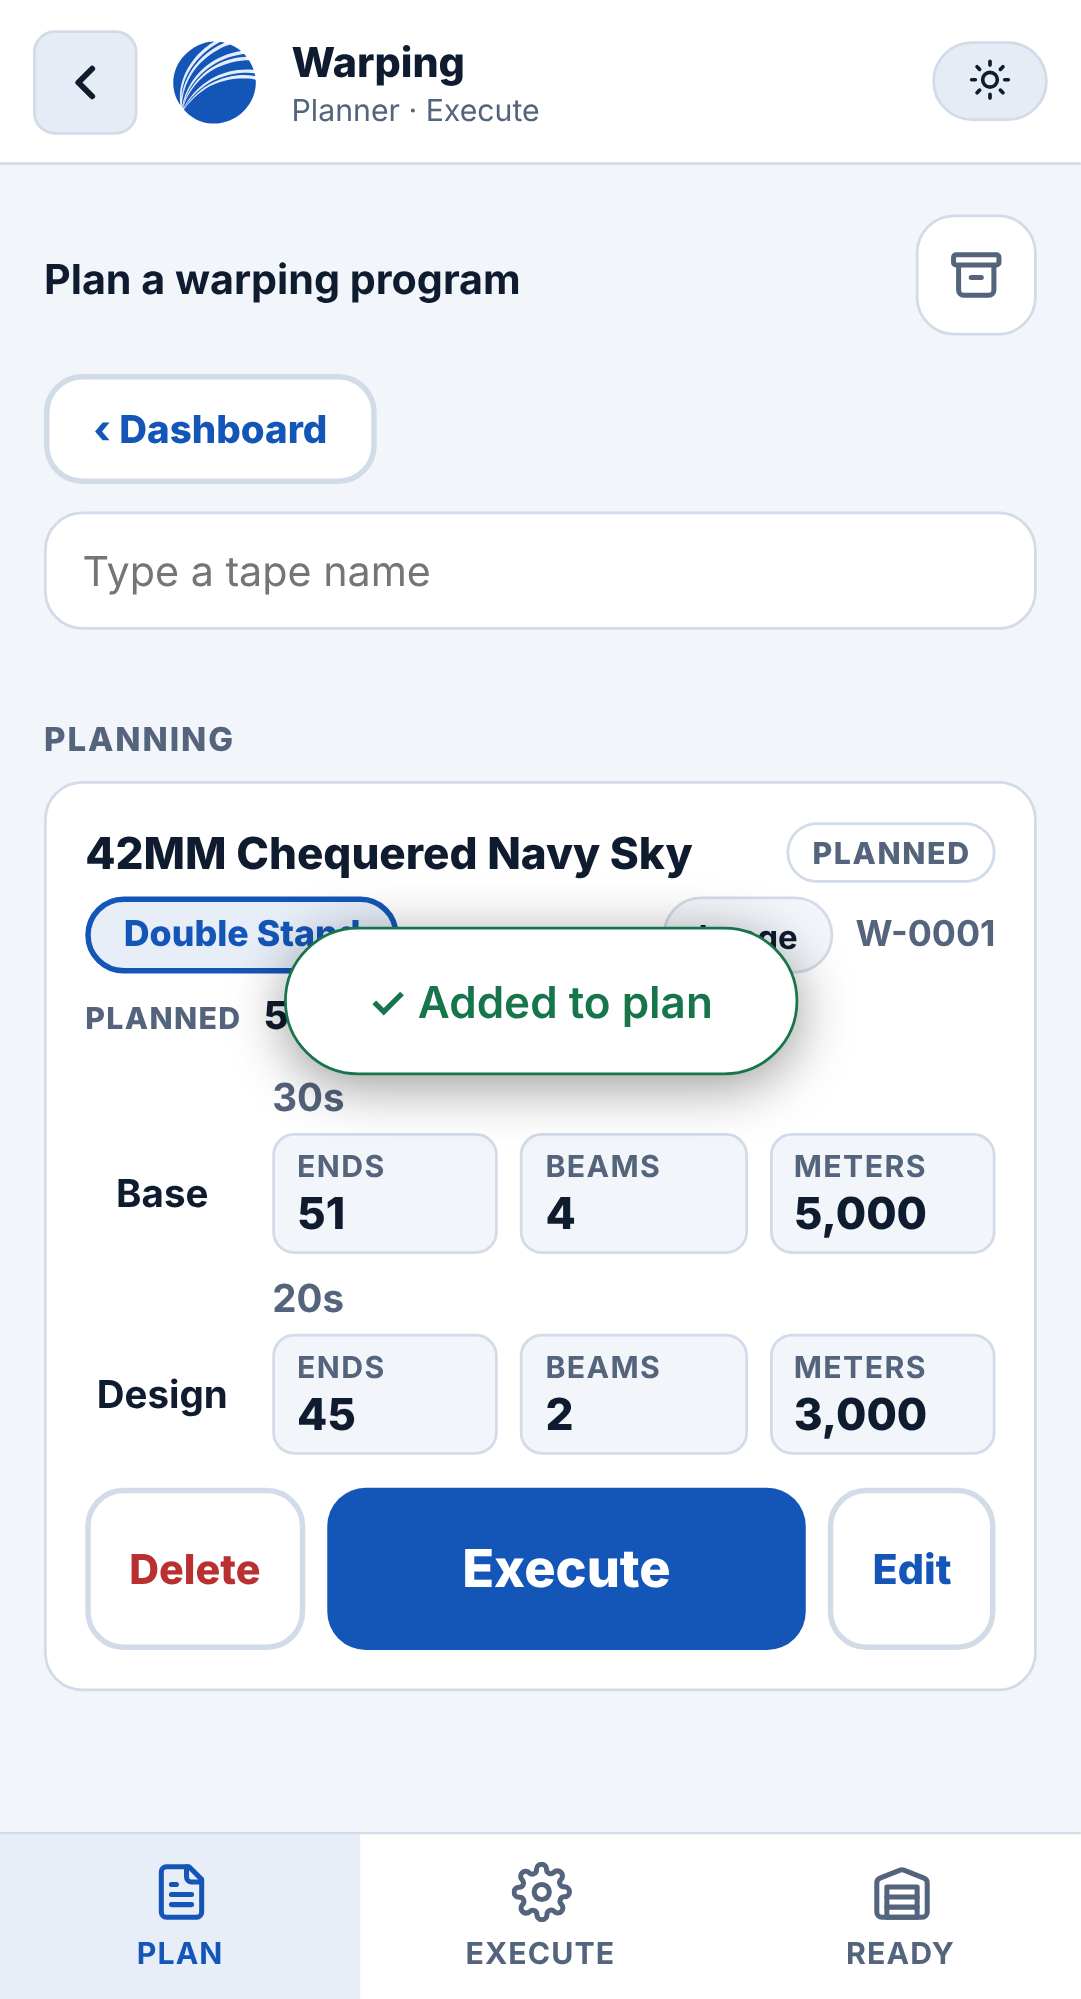
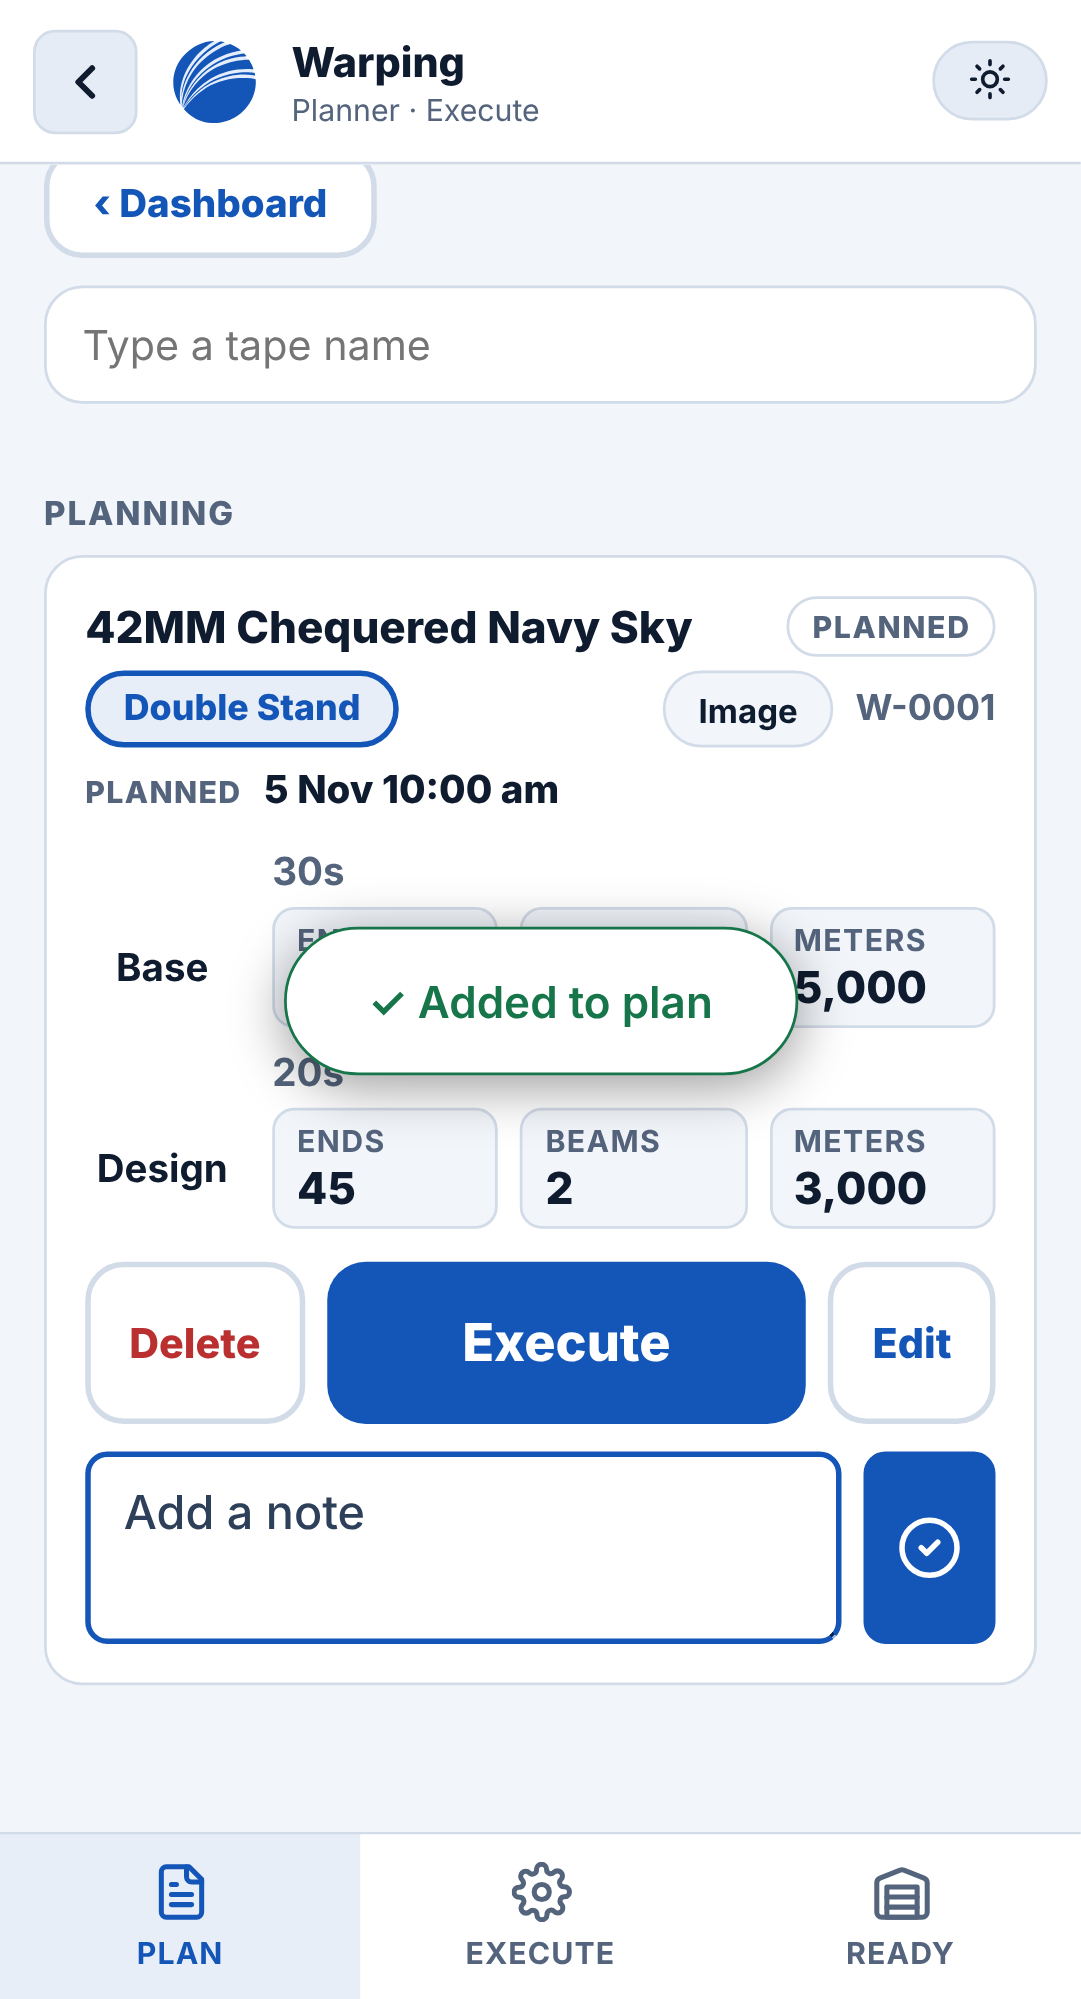
Warping: note box in the add-plan form (v181)
Claude-Session: https://claude.ai/code/session_013qk7FSdSmrsDn8iJYfp5m6

diff --git a/index.html b/index.html
@@ -1335,7 +1335,7 @@ input:focus-visible,select:focus-visible,textarea:focus-visible{outline-offset:0
       <svg id="refreshIcon" width="13" height="13" viewBox="0 0 24 24" fill="none" stroke="currentColor" stroke-width="2.5" stroke-linecap="round" stroke-linejoin="round"><polyline points="23 4 23 10 17 10"/><polyline points="1 20 1 14 7 14"/><path d="M3.51 9a9 9 0 0 1 14.85-3.36L23 10M1 14l4.64 4.36A9 9 0 0 0 20.49 15"/></svg>
       <span class="rlabel">Refresh</span>
     </button>
-    <span class="app-ver" id="appVer" title="App version">v180</span>
+    <span class="app-ver" id="appVer" title="App version">v181</span>
     <button class="theme-btn" onclick="toggleTheme()" id="themeBtn" aria-label="Toggle theme"><svg class="ic" aria-hidden="true"><use href="#i-moon"/></svg></button>
   </div>
 </header>
@@ -3407,6 +3407,7 @@ var WP=(function(){
       +'<div class="wp-yarns"><div><span>Base yarn</span><b>'+esc(v.baseYarn||'—')+'</b></div><div><span>Design yarn</span><b>'+esc(v.designYarn||'—')+'</b></div></div>'
       +'<div class="wp-grid"><div><h4>Base</h4><div class="wp-ends">Ends <b>'+n(v.baseEnds)+'</b></div><label>No. of beams<input id="wpBB" type="number" inputmode="numeric" min="0" max="99"></label><label>Meters per beam<input id="wpBM" type="number" inputmode="numeric" min="0"></label></div>'
       +'<div><h4>Design</h4><div class="wp-ends">Ends <b>'+n(v.designEnds)+'</b></div><label>No. of beams<input id="wpDB" type="number" inputmode="numeric" min="0" max="99"></label><label>Meters per beam<input id="wpDM" type="number" inputmode="numeric" min="0"></label></div></div>'
+      +'<textarea class="wp-note" id="wpNote" rows="2" maxlength="300" placeholder="Add a note" aria-label="Note"></textarea>'
       +'<div class="us-err" id="wpErr" role="alert"></div><button type="button" class="btn-submit" id="wpSave" data-wp-save="1">Add to planning</button></div>';
     return h;
   }
@@ -3537,8 +3538,8 @@ var WP=(function(){
     if((bb||bm)&&!(bb&&bm))return bad('Base needs both the number of beams and the meters');
     if((db||dm)&&!(db&&dm))return bad('Design needs both the number of beams and the meters');
     if(!bb&&!db)return bad('Enter the beams and meters for Base, Design, or both');
-    var t={id:'tmp'+Date.now(),tape:sel.name,stand:vr.stand,category:vr.category||'',status:'Planned',created:nowStamp(),by:ME?ME.name:'',baseEnds:vr.baseEnds||0,baseYarn:vr.baseYarn||'',baseBeams:bb,baseMeters:bm,designEnds:vr.designEnds||0,designYarn:vr.designYarn||'',designBeams:db,designMeters:dm};
-    var args={tape:sel.name,stand:vr.stand,baseBeams:g('wpBB'),baseMeters:g('wpBM'),designBeams:g('wpDB'),designMeters:g('wpDM')};
+    var t={id:'tmp'+Date.now(),tape:sel.name,stand:vr.stand,category:vr.category||'',status:'Planned',created:nowStamp(),by:ME?ME.name:'',baseEnds:vr.baseEnds||0,baseYarn:vr.baseYarn||'',baseBeams:bb,baseMeters:bm,designEnds:vr.designEnds||0,designYarn:vr.designYarn||'',designBeams:db,designMeters:dm,note:g('wpNote').trim().replace(/\s+/g,' ')};
+    var args={tape:sel.name,stand:vr.stand,baseBeams:g('wpBB'),baseMeters:g('wpBM'),designBeams:g('wpDB'),designMeters:g('wpDM'),note:t.note};
     ver++;jobs=(jobs||[]).concat([t]);if(board)board=[t].concat(board);bump('planning',1);
     msg='';sel=null;vr=null;qs='';draw();showToast('\u2713 Added to plan','success mid');
     bg('warp.add',args);

diff --git a/sw.js b/sw.js
@@ -1,5 +1,5 @@
 // Suryatex OS service worker: fast shell, offline fallback. Never touches /api/*.
-const V = 'sx-v134';
+const V = 'sx-v135';
 const SHELL = ['/', '/logo.svg', '/manifest.json', '/icon-192.png', '/icon-512.png', '/apple-touch-icon.png'];
 
 self.addEventListener('install', (e) => {
